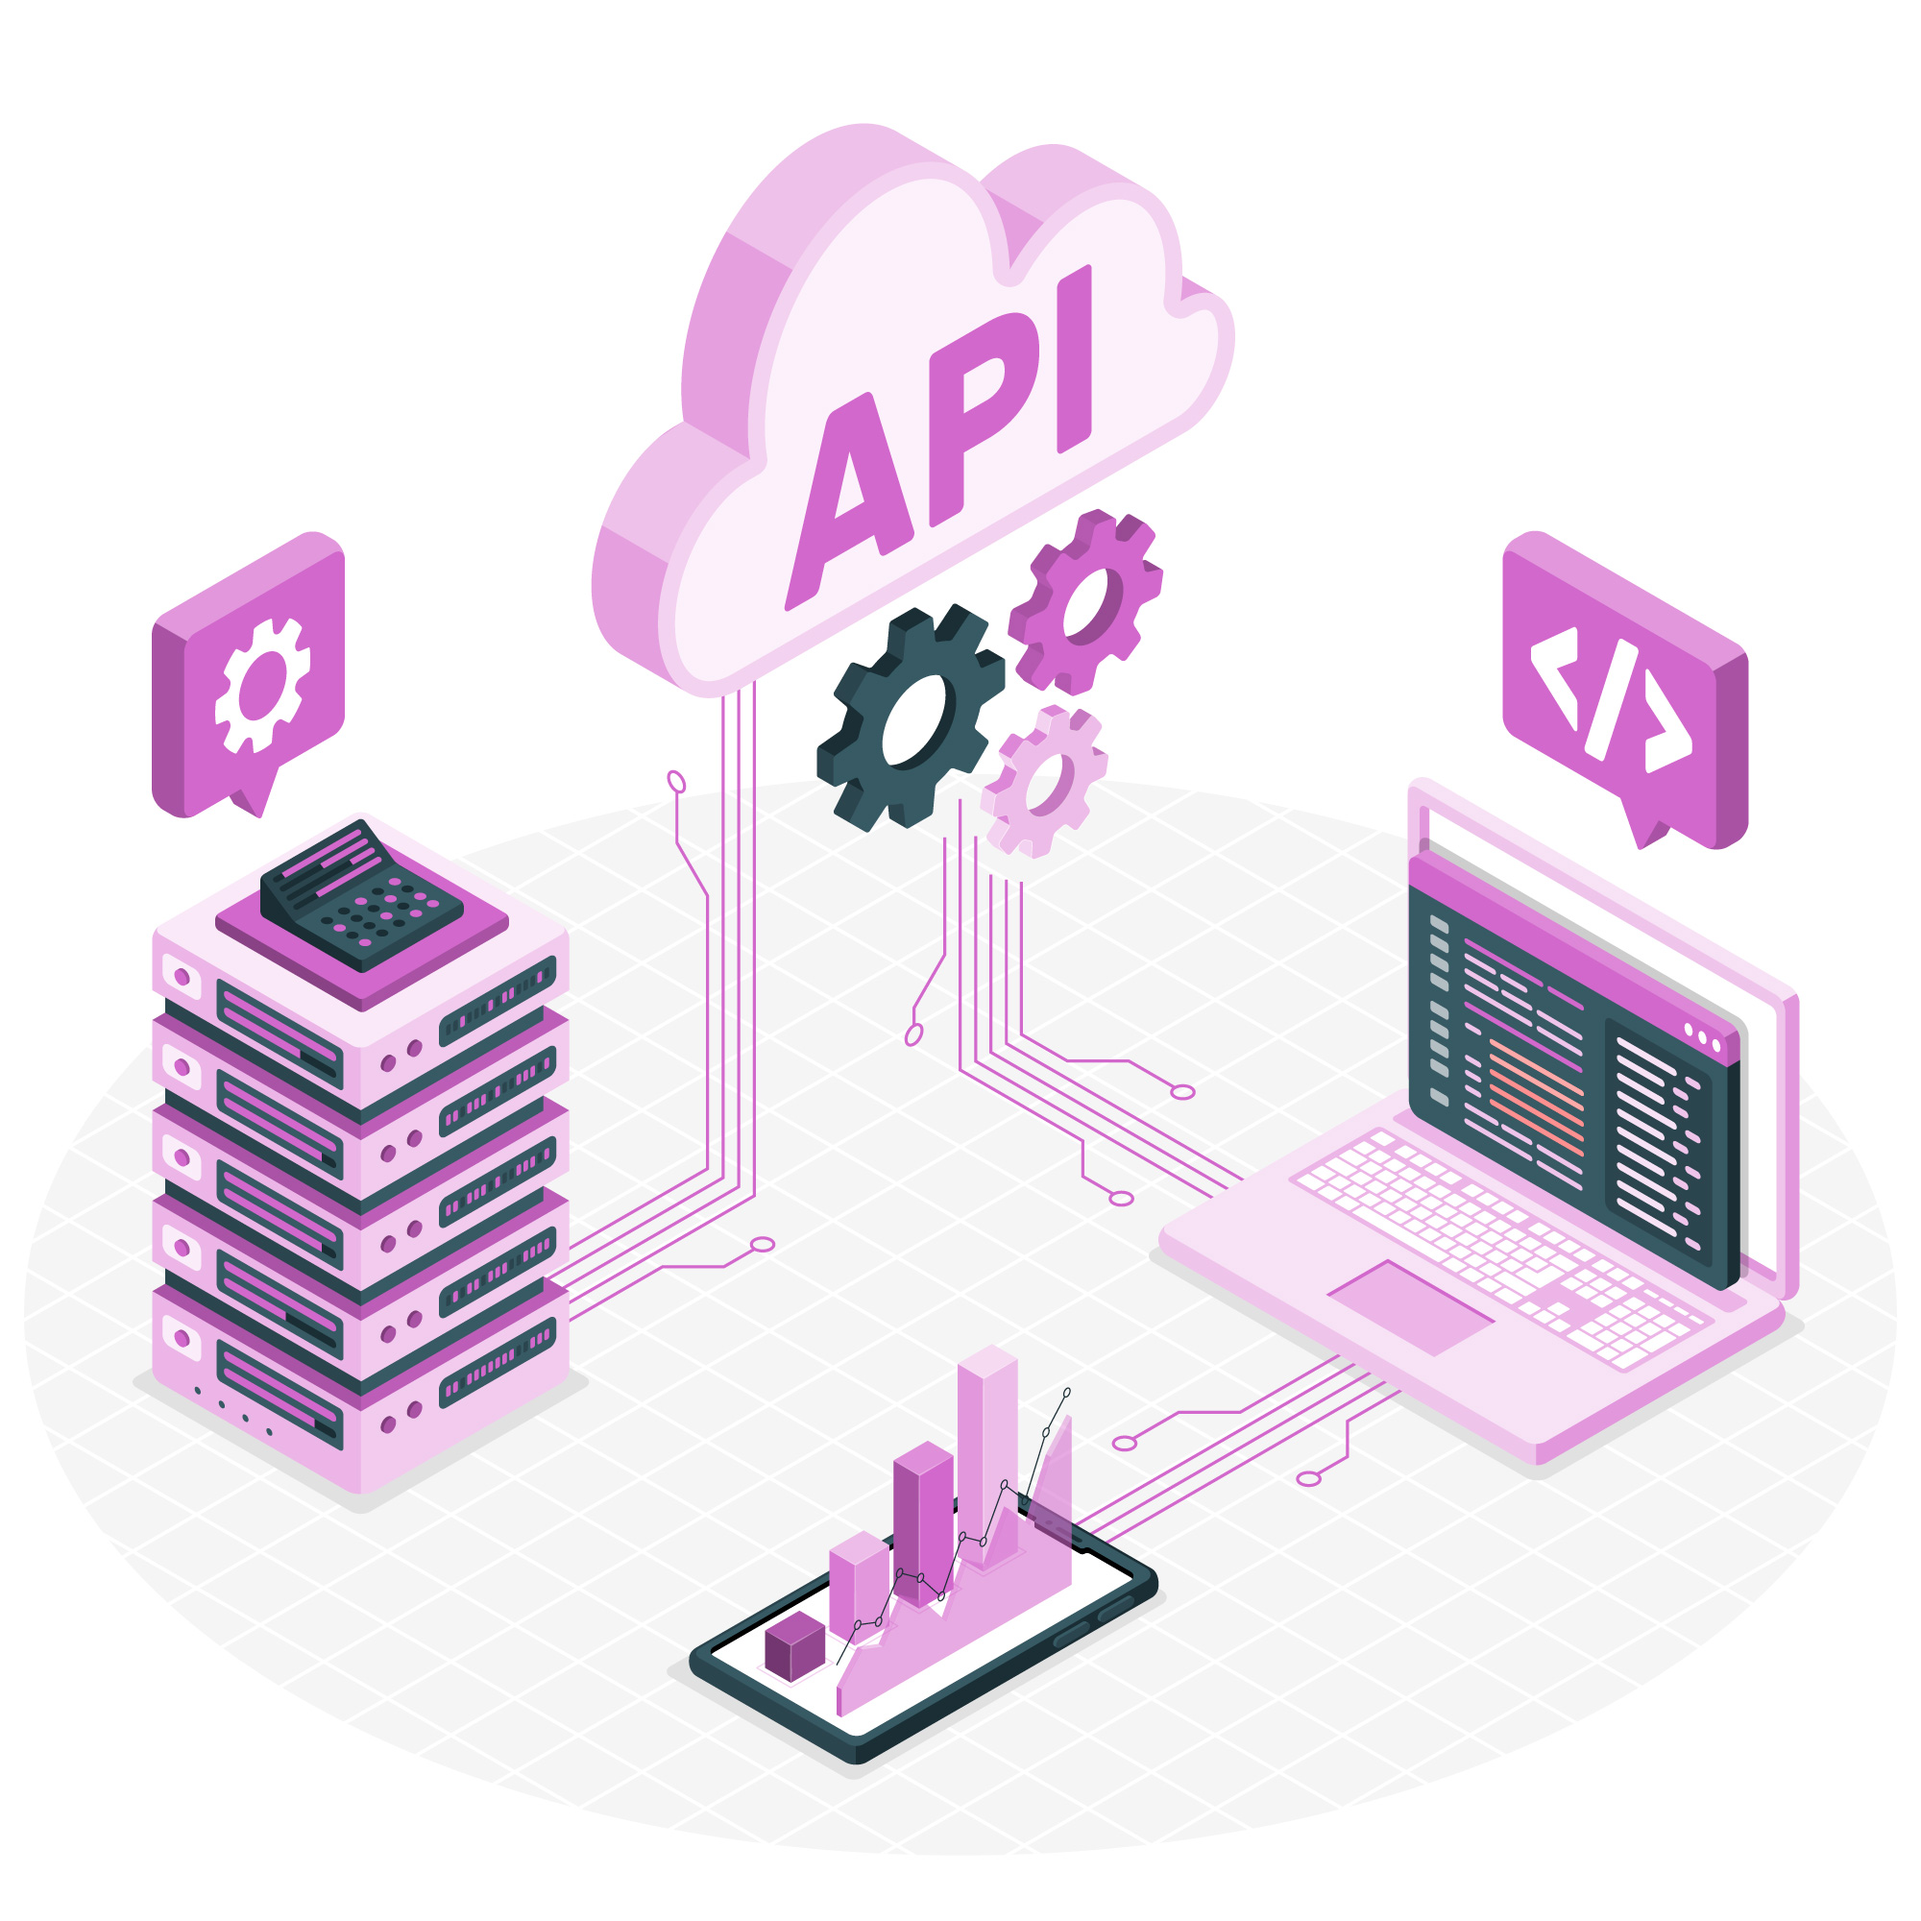
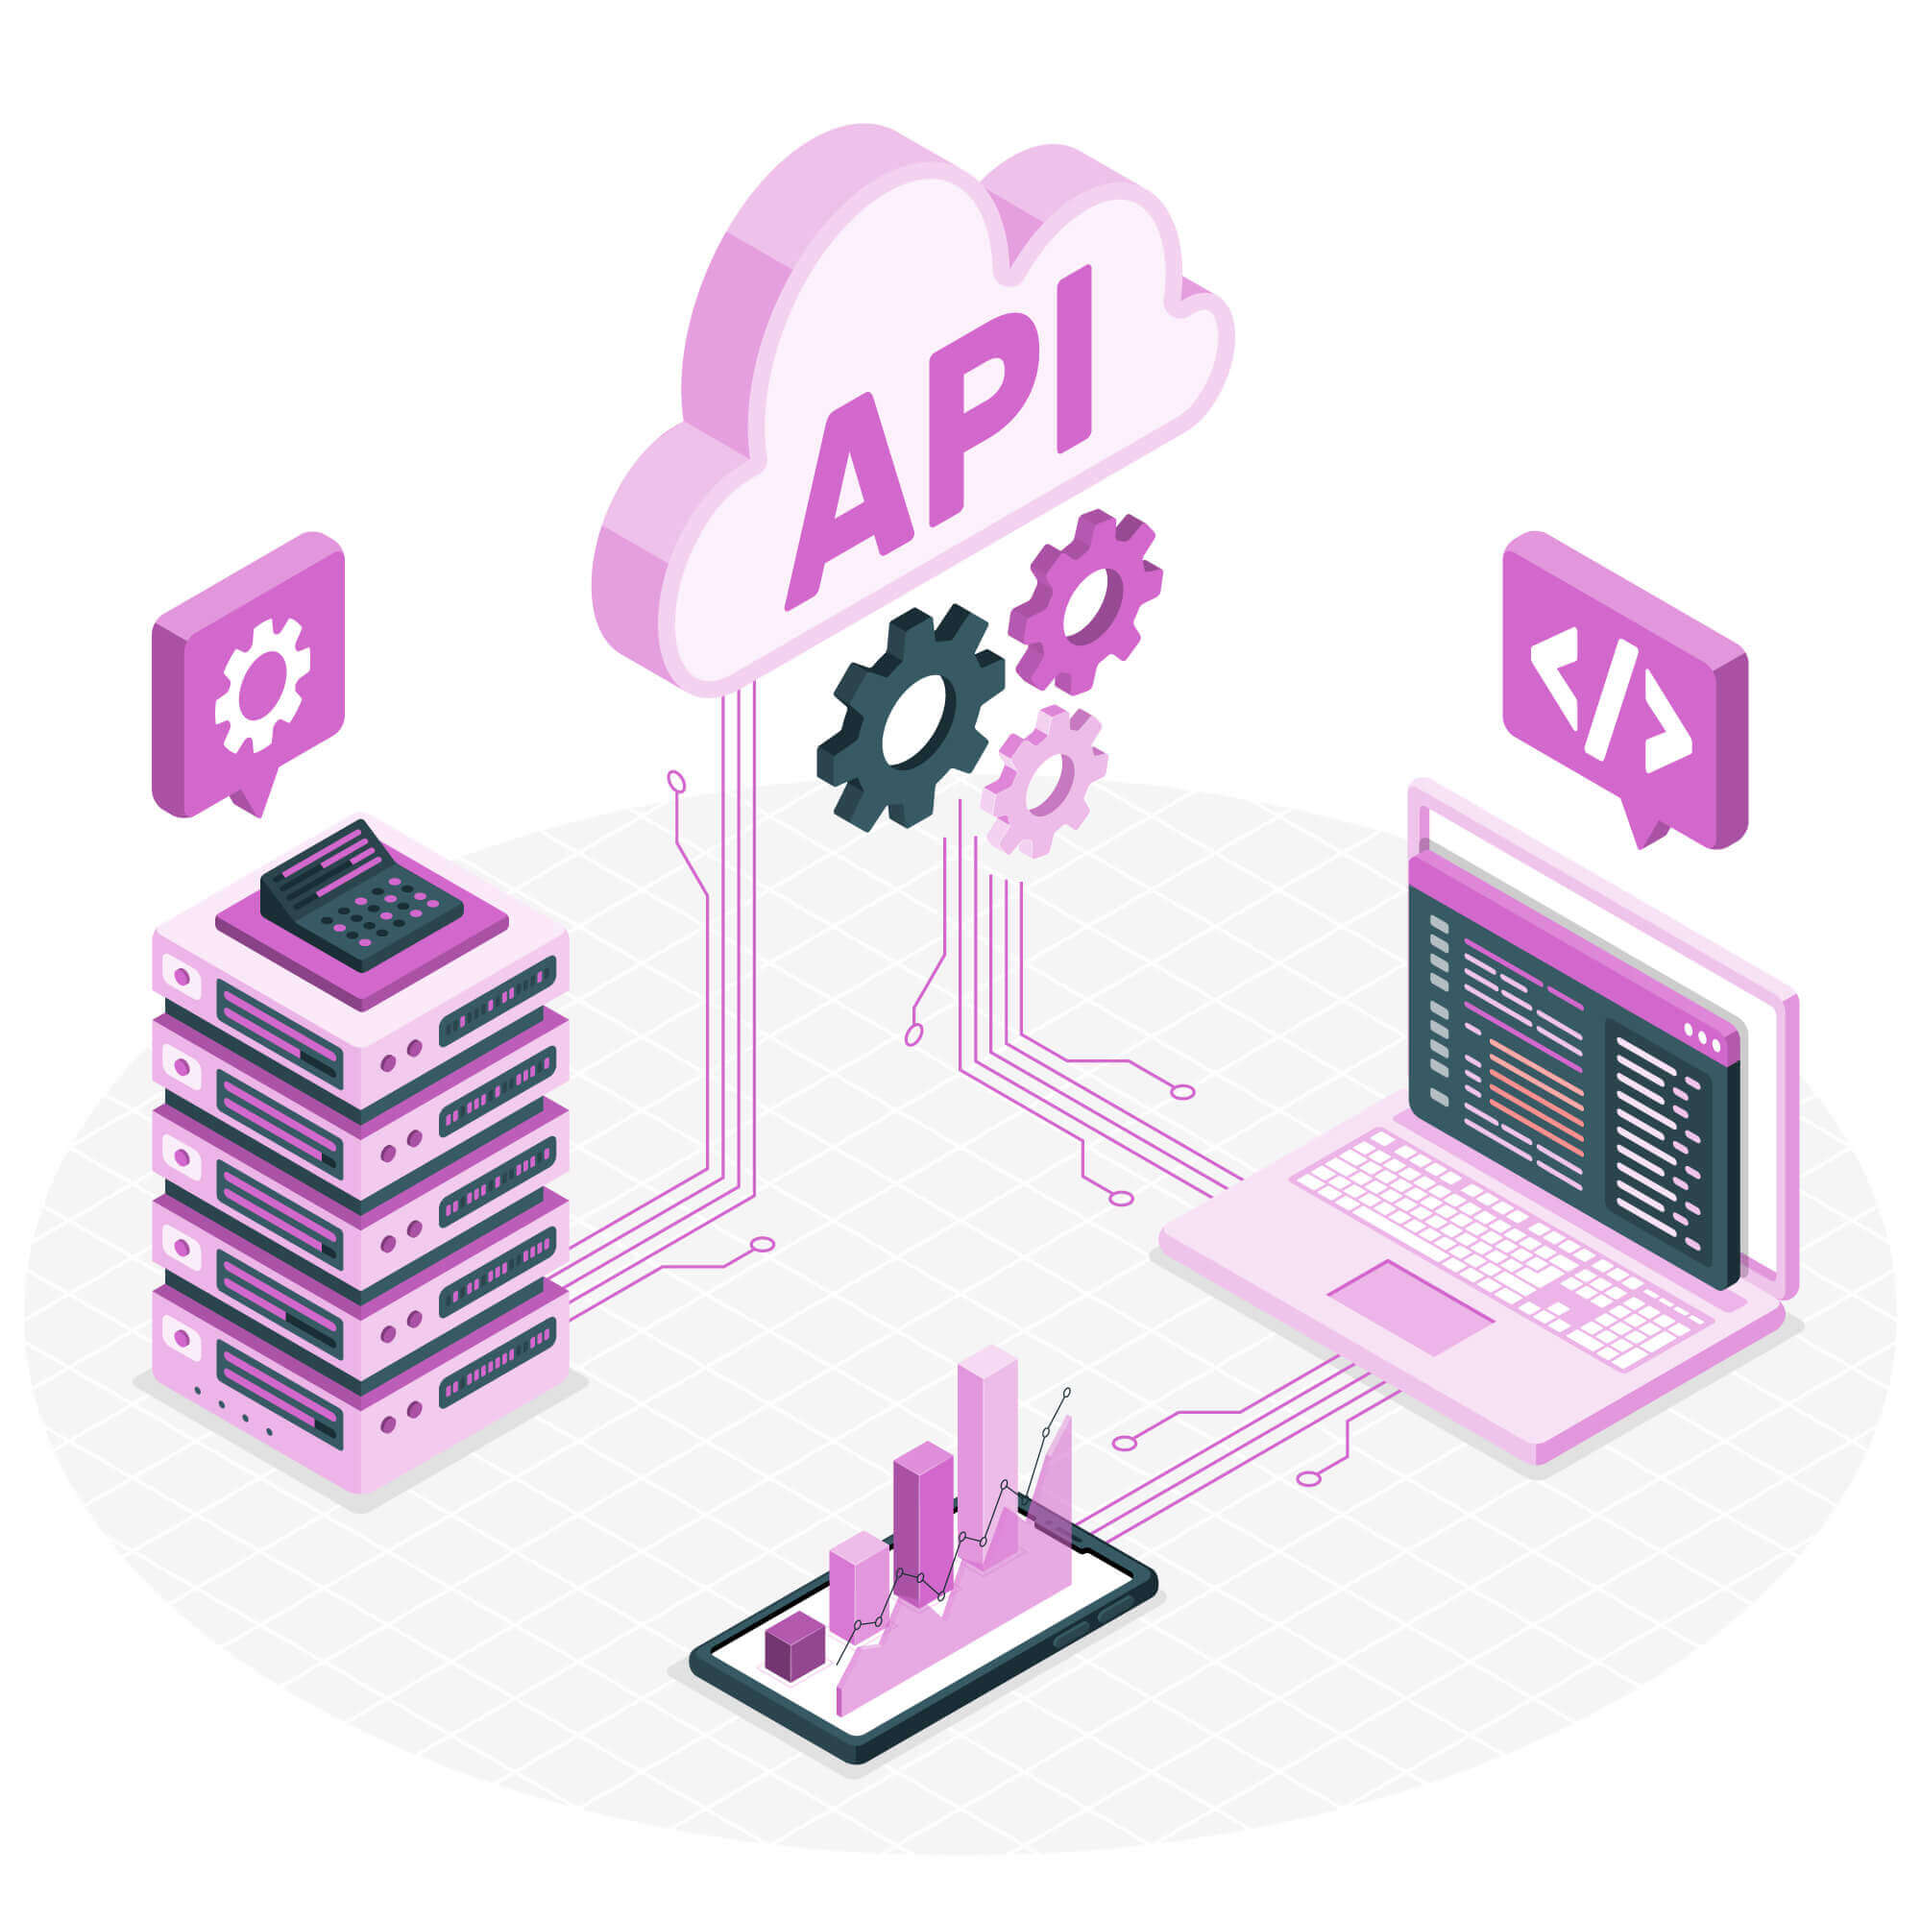
images compress

diff --git a/software-development-services.html b/software-development-services.html
@@ -600,7 +600,7 @@
                         <div class="card mb-3">
                             <div class="row g-0">
                                 <div class="col-md-4">
-                                    <img src="assets/img/service/Software Development/CodingDevelopment.png"
+                                    <img src="assets/img/service/Software Development/CodingDevelopment.webp"
                                         class="img-fluid rounded-start" alt="img">
                                 </div>
                                 <div class="col-md-8">
@@ -618,7 +618,7 @@
                         <div class="card mb-3">
                             <div class="row g-0">
                                 <div class="col-md-4">
-                                    <img src="assets/img/service/Software Development/Deployment.png"
+                                    <img src="assets/img/service/Software Development/Deployment.webp"
                                         class="img-fluid rounded-start" alt="img">
                                 </div>
                                 <div class="col-md-8">
@@ -635,7 +635,7 @@
                         <div class="card mb-3">
                             <div class="row g-0">
                                 <div class="col-md-4">
-                                    <img src="assets/img/service/Software Development/Maintenance & Updates.png"
+                                    <img src="assets/img/service/Software Development/Maintenance & Updates.webp"
                                         class="img-fluid rounded-start" alt="img">
                                 </div>
                                 <div class="col-md-8">
@@ -654,7 +654,7 @@
                         <div class="card mb-3">
                             <div class="row g-0">
                                 <div class="col-md-4">
-                                    <img src="assets/img/service/Software Development/Requirements Gathering.png"
+                                    <img src="assets/img/service/Software Development/Requirements Gathering.webp"
                                         class="img-fluid rounded-start" alt="img">
                                 </div>
                                 <div class="col-md-8">
@@ -673,7 +673,7 @@
                         <div class="card mb-3">
                             <div class="row g-0">
                                 <div class="col-md-4">
-                                    <img src="assets/img/service/Software Development/System Design.png"
+                                    <img src="assets/img/service/Software Development/System Design.webp"
                                         class="img-fluid rounded-start" alt="img">
                                 </div>
                                 <div class="col-md-8">
@@ -691,7 +691,7 @@
                         <div class="card mb-3">
                             <div class="row g-0">
                                 <div class="col-md-4">
-                                    <img src="assets/img/service/Software Development/Testing.png"
+                                    <img src="assets/img/service/Software Development/Testing.webp"
                                         class="img-fluid rounded-start" alt="img">
                                 </div>
                                 <div class="col-md-8">

diff --git a/web-development-services.html b/web-development-services.html
@@ -331,7 +331,7 @@
                                 <div class="herobanner__text">
                                     <p style="max-width: 950px;"> Digital Minds On, a leading web development company,
                                         to
-                                        create high-performance websites. We specialize in custom UX/UI design, complex
+                                        create high-performance websites. We specialize in custom UI/UX design, complex
                                         animations, and optimization for enhanced user experience, search, and
                                         conversions. Our end-to-end services ensure seamless integration and
                                         functionality across all platforms, driving success. </p>
@@ -614,7 +614,7 @@
                         <div class="card mb-3">
                             <div class="row g-0">
                                 <div class="col-md-4">
-                                    <img src="assets/img/service/33.jpg" class="img-fluid rounded-start" alt="img">
+                                    <img src="assets/img/service/web-developement/33.webp" class="img-fluid rounded-start" alt="img">
                                 </div>
                                 <div class="col-md-8">
                                     <div class="card-body">
@@ -633,7 +633,7 @@
                         <div class="card mb-3">
                             <div class="row g-0">
                                 <div class="col-md-4">
-                                    <img src="assets/img/web image/coding.jpg" class="img-fluid rounded-start"
+                                    <img src="assets/img/web image/coding.webp" class="img-fluid rounded-start"
                                         alt="...">
                                 </div>
                                 <div class="col-md-8">
@@ -750,7 +750,7 @@
                         <div class="card mb-3">
                             <div class="row g-0">
                                 <div class="col-md-4">
-                                    <img src="assets/img/web image/maintance.jpg" class="img-fluid rounded-start"
+                                    <img src="assets/img/web image/maintance.webp" class="img-fluid rounded-start"
                                         alt="...">
                                 </div>
                                 <div class="col-md-8">
@@ -771,7 +771,7 @@
                         <div class="card mb-3">
                             <div class="row g-0">
                                 <div class="col-md-4">
-                                    <img src="assets/img/web image/ui.jpg" class="img-fluid rounded-start" alt="...">
+                                    <img src="assets/img/web image/ui.webp" class="img-fluid rounded-start" alt="...">
                                 </div>
                                 <div class="col-md-8">
                                     <div class="card-body">
